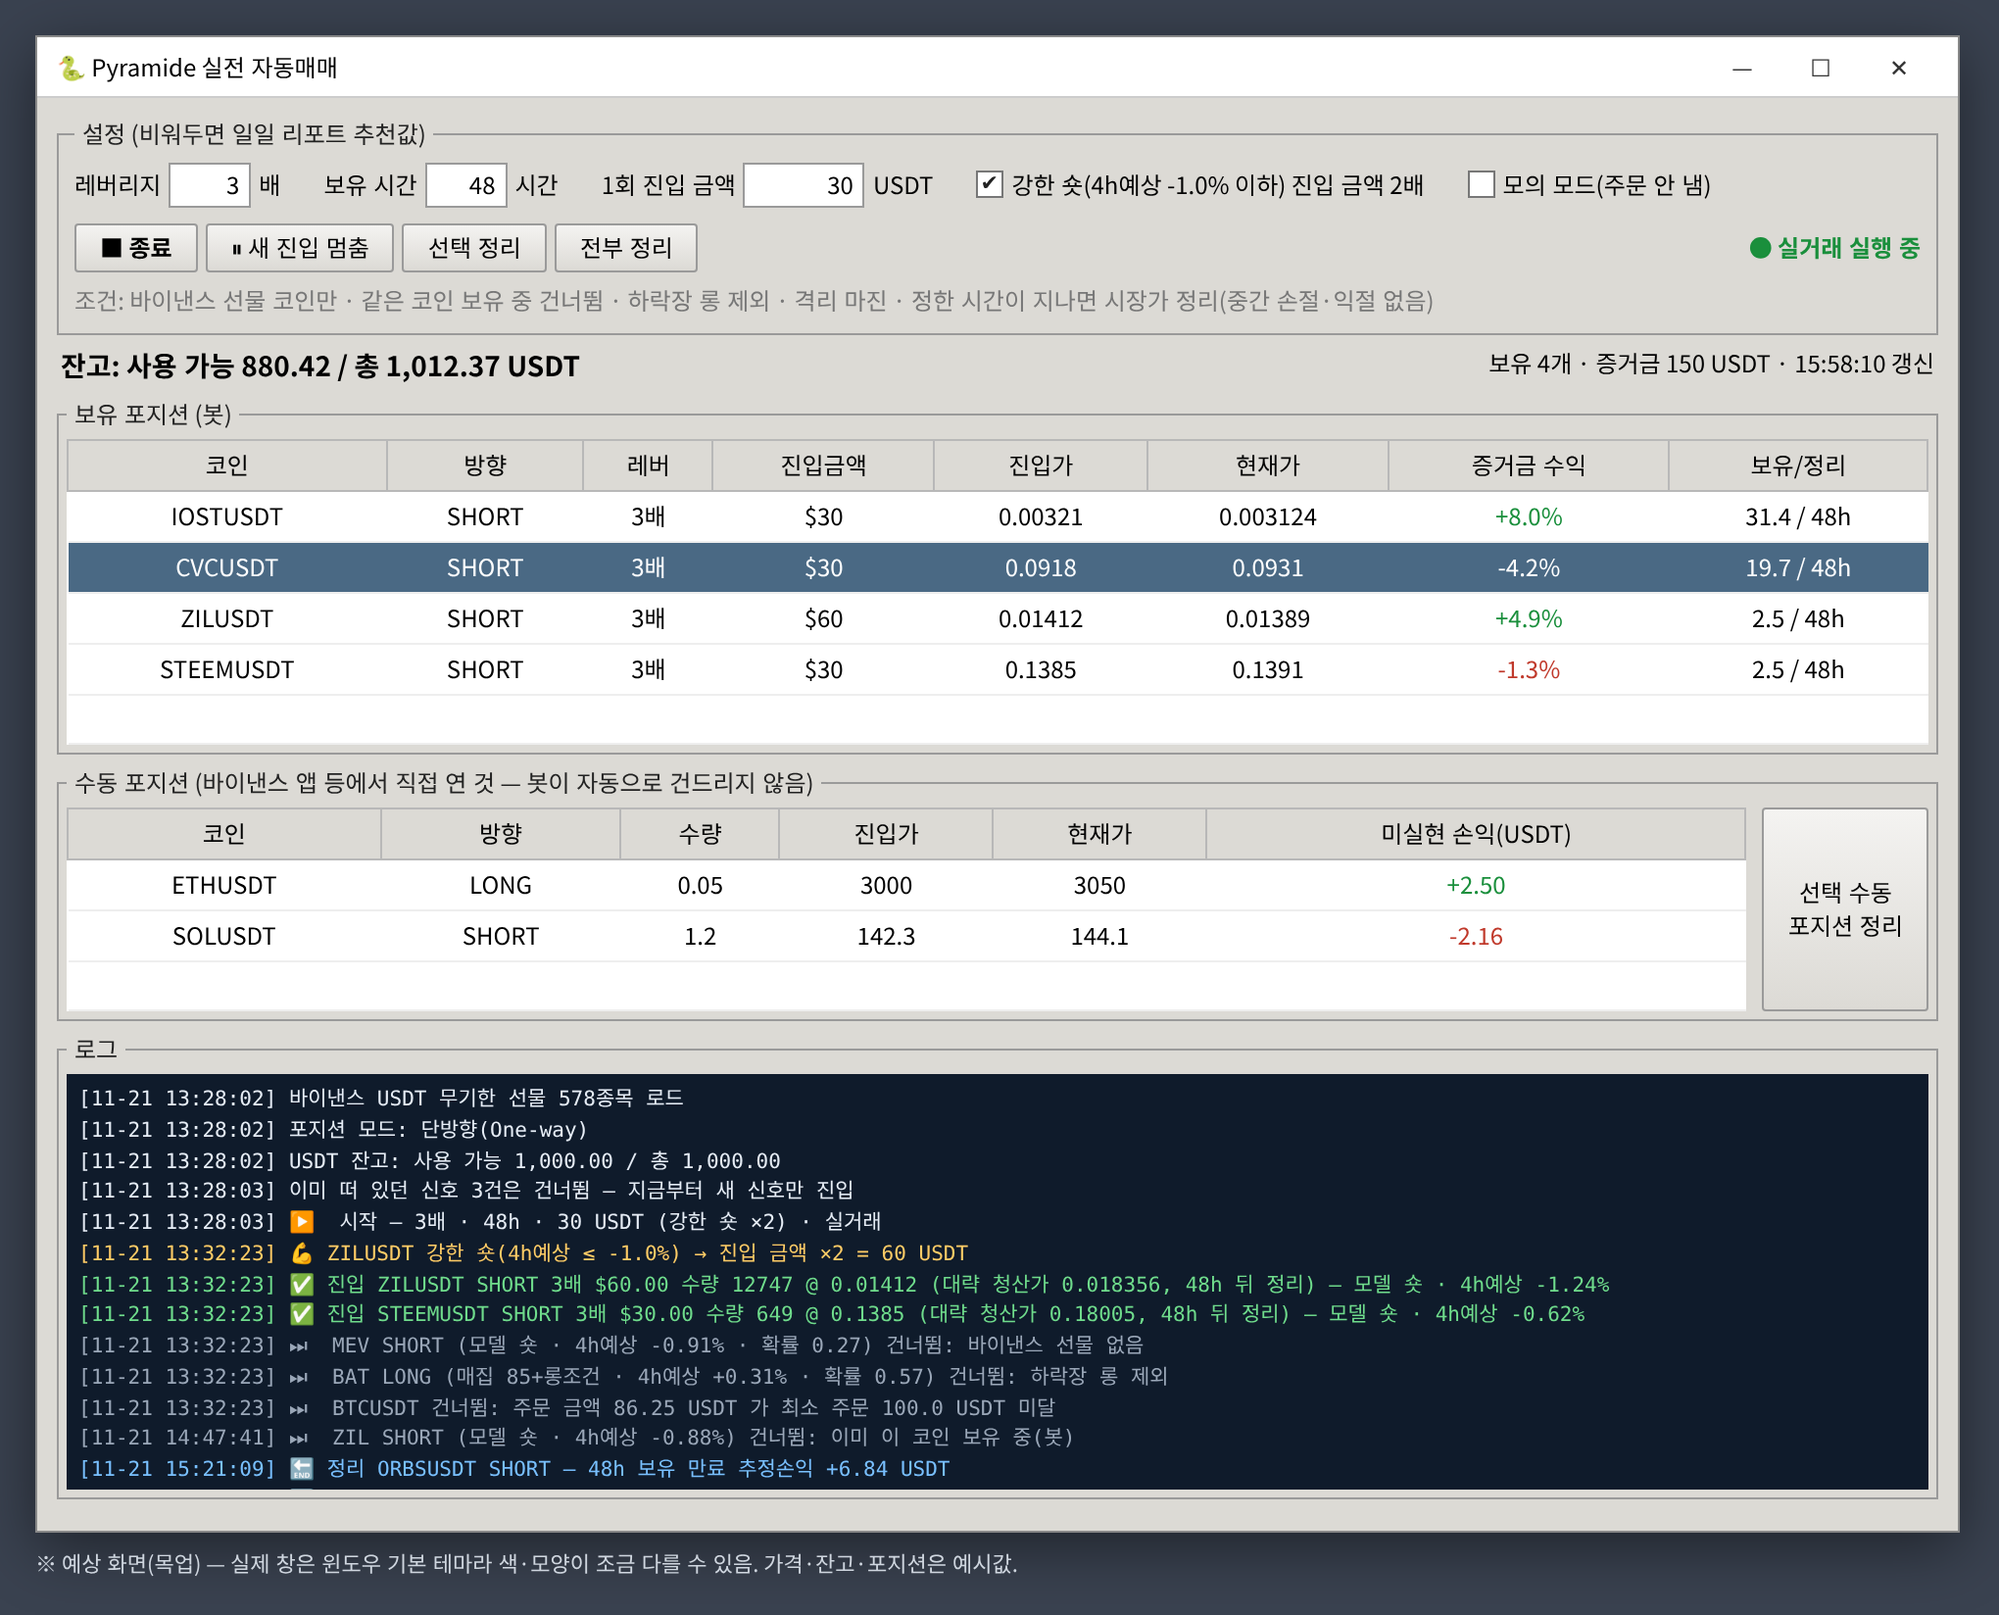
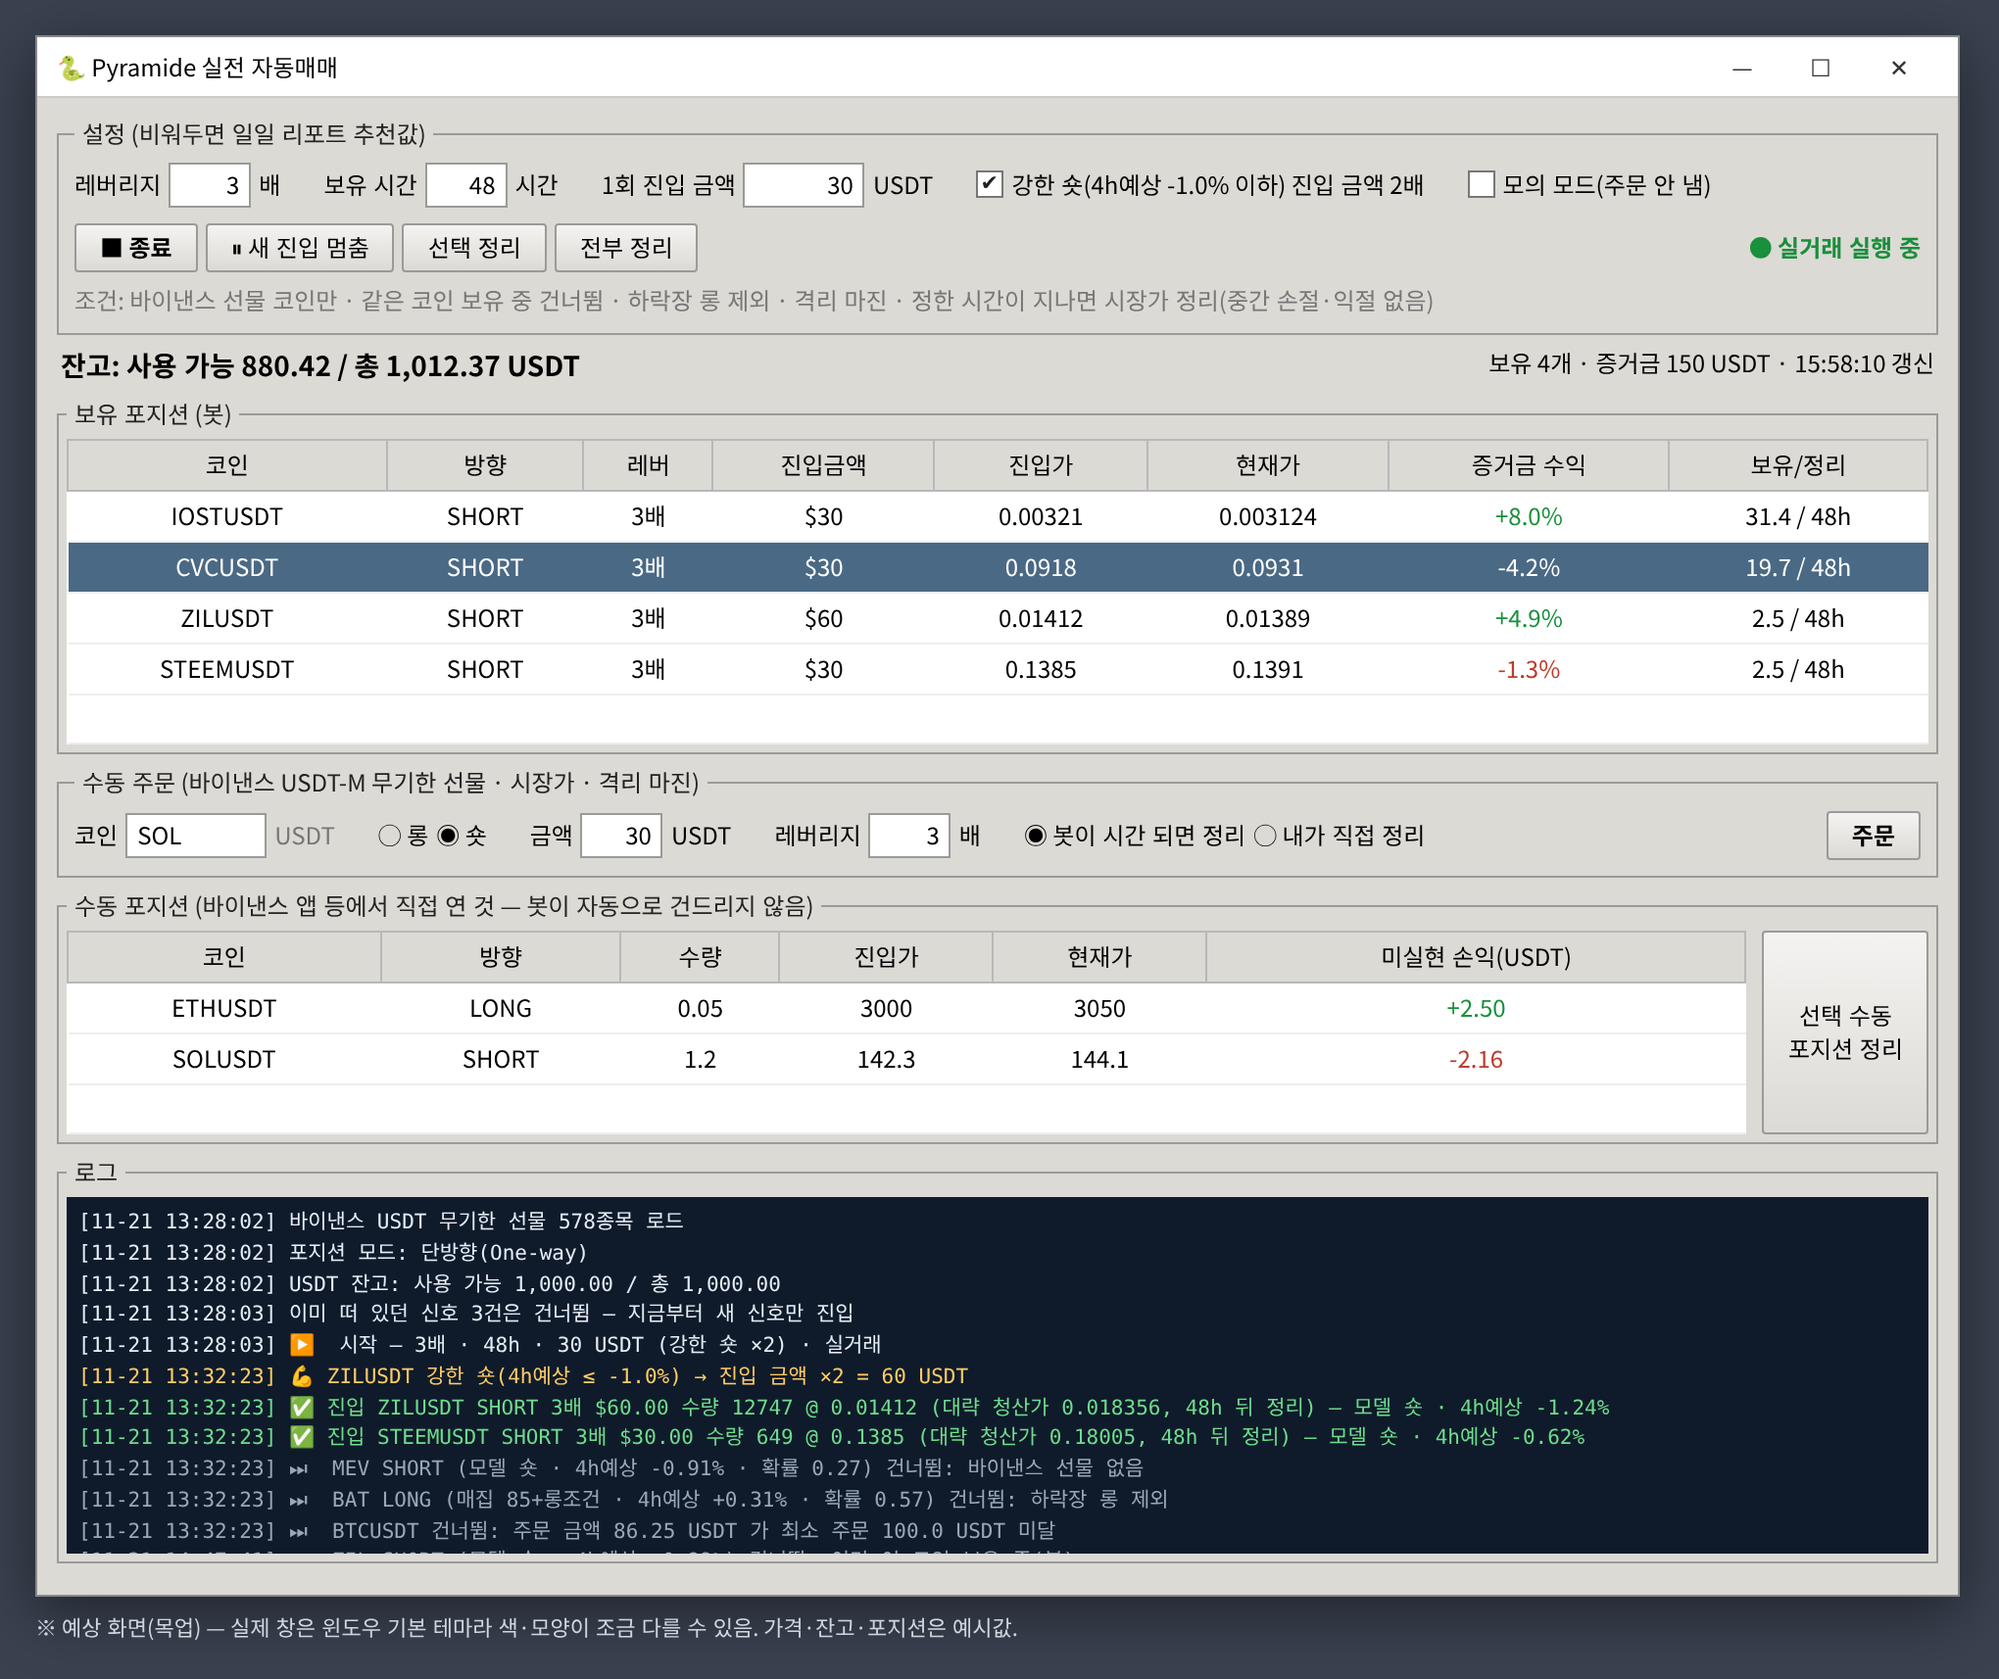
auto: update 2026-11-21 16:51:48.28

Changed region(s): [[0.0309, 0.0309, 0.9882, 0.9903], [0.7412, 0.0928, 0.8647, 0.1238], [0.8647, 0.0309, 0.9574, 0.0619]]

diff --git a/live_trader.py b/live_trader.py
@@ -38,7 +38,7 @@ live_trader.py — Pyramide 판정 신호 → 바이낸스 USDT-M 선물 실전 
   3) 켜 두는 동안만 동작. 꺼도 거래소 포지션은 그대로고, 다시 켜면 이어서 정리 시간을 관리한다.
      (꺼져 있는 동안 정리 시간이 지났으면 켜자마자 정리)
 
-실행 중 명령어: status / pause / resume / close BTCUSDT / closeall / manual / mclose BTCUSDT / quit / help
+실행 중 명령어: status / pause / resume / close BTCUSDT / closeall / order / manual / mclose BTCUSDT / quit / help
   (manual = 바이낸스 앱 등에서 직접 연 수동 포지션 보기, mclose = 사용자가 요청할 때만 그 수동 포지션 정리. 봇은 수동 포지션을 절대 자동으로 건드리지 않음)
 기록: live_trades.csv(거래), live_log.txt(로그), live_state.json(보유 중 포지션)
 """
@@ -578,20 +578,24 @@ class Trader:
                 mult = STRONG_MULT
         self.open_position(eid, symbol, direction, reason, regime, mult)
 
-    def open_position(self, eid, symbol, direction, reason, regime, mult=1.0):
+    def open_position(self, eid, symbol, direction, reason, regime, mult=1.0, lev=None, margin=None,
+                      hold=None, record=True):
+        """record=False 면 주문만 넣고 봇 목록에 안 넣음(= 수동 포지션, 자동 정리 안 함). 성공하면 True."""
         info = self.bn.symbols[symbol]
         mark = self.bn.mark_price(symbol)
-        lev, margin = self.lev, self.margin * mult
+        lev = int(lev or self.lev)
+        margin = float(margin if margin is not None else self.margin) * mult
+        hold = float(hold if hold is not None else self.hold_h)
         if mult != 1.0:
             log(f"💪 {symbol} 강한 숏(4h예상 ≤ {STRONG_SHORT_EXP4}%) → 진입 금액 ×{mult:g} = {margin:g} USDT")
         if not self.dry:
             avail, _ = self.bn.usdt_balance()
             if avail < margin * 1.05:
                 log(f"⏭  {symbol} 건너뜀: 사용 가능 잔고 {avail:.2f} < 진입 금액 {margin:.2f}")
-                return
+                return False
             if symbol in self.bn.positions():
                 log(f"⏭  {symbol} 건너뜀: 거래소에 이미 이 코인 포지션 있음(수동 포함)")
-                return
+                return False
             self.bn.set_margin_type(symbol, MARGIN_TYPE)
             real = self.bn.set_leverage(symbol, lev)
             if real != lev:
@@ -603,7 +607,7 @@ class Trader:
         if qty <= 0 or qty < info["min_qty"] or float(qty) * mark < info["min_notional"]:
             log(f"⏭  {symbol} 건너뜀: 주문 금액 {float(qty) * mark:.2f} USDT 가 최소 주문 {info['min_notional']} USDT 미달 "
                 f"— 진입 금액이나 레버리지를 올려야 함")
-            return
+            return False
         side = "BUY" if direction == "LONG" else "SELL"
         entry = mark
         if not self.dry:
@@ -611,19 +615,44 @@ class Trader:
                 res = self.bn.market_order(symbol, side, fmt_qty(qty), position_side=direction)
             except BinanceError as e:
                 log(f"❌ {symbol} 진입 주문 실패: {e}")
-                return
+                return False
             entry = float(res.get("avgPrice") or 0) or mark
             qty = Decimal(str(res.get("executedQty") or qty))
+        liq = entry * (1 - 0.9 / lev) if direction == "LONG" else entry * (1 + 0.9 / lev)
+        if not record:
+            log(f"✅ {'[모의] ' if self.dry else ''}수동 주문 {symbol} {direction} {lev}배 ${margin:.2f} 수량 {fmt_qty(qty)} "
+                f"@ {entry:g} (대략 청산가 {liq:g}) — 봇이 관리 안 함(직접 정리)")
+            return True
         t = {"event_id": eid, "symbol": symbol, "direction": direction, "reason": reason, "regime": regime,
              "mode": "dry" if self.dry else "live", "leverage": lev, "margin": margin, "qty": fmt_qty(qty),
              "entry_time": datetime.now().strftime("%Y-%m-%d %H:%M:%S"), "entry_price": entry,
-             "hold_hours": self.hold_h, "status": "open"}
+             "hold_hours": hold, "status": "open"}
         with self.lock:
             self.state["trades"][eid] = t
         self.save_state()
-        liq = entry * (1 - 0.9 / lev) if direction == "LONG" else entry * (1 + 0.9 / lev)
         log(f"✅ {'[모의] ' if self.dry else ''}진입 {symbol} {direction} {lev}배 ${margin:.2f} 수량 {fmt_qty(qty)} "
-            f"@ {entry:g} (대략 청산가 {liq:g}, {self.hold_h:g}h 뒤 정리) — {reason}")
+            f"@ {entry:g} (대략 청산가 {liq:g}, {hold:g}h 뒤 정리) — {reason}")
+        return True
+
+    def manual_open(self, ticker, direction, margin, lev, managed=True, hold=None):
+        """사용자 수동 주문. managed=True 면 봇 목록에 넣어 hold 시간 뒤 자동 정리, False 면 수동 포지션(직접 정리)."""
+        direction = direction.upper()
+        if direction not in ("LONG", "SHORT"):
+            log("❌ 방향은 LONG/SHORT")
+            return False
+        t = ticker.upper().strip()
+        symbol = t if t in self.bn.symbols else self.to_symbol(t[:-4] if t.endswith("USDT") else t)
+        if not symbol:
+            log(f"❌ {ticker}: 바이낸스 USDT 무기한 심볼 없음")
+            return False
+        if any(x["symbol"] == symbol for x in self.open_trades().values()):
+            log(f"⏭  {symbol}: 이미 봇이 들고 있는 코인")
+            return False
+        eid = f"manual_{datetime.now():%Y%m%d%H%M%S}_{symbol}_{direction}"
+        log(f"🖐  수동 주문 요청 {symbol} {direction} {lev}배 ${float(margin):g} "
+            + (f"(봇이 {float(hold if hold is not None else self.hold_h):g}h 뒤 정리)" if managed else "(직접 정리)"))
+        return self.open_position(eid, symbol, direction, "수동 주문", "", 1.0, lev=lev, margin=margin,
+                                  hold=hold, record=managed)
 
     # --- 보유 관리 ---
     def manage(self):
@@ -748,6 +777,8 @@ HELP = """
   pause / resume  새 진입 멈춤 / 다시 시작 (보유 포지션 정리는 계속됨)
   close BTCUSDT   그 포지션 바로 정리
   closeall        봇 포지션 전부 바로 정리
+  order ZIL short 30 3 [auto|keep]  수동 주문: 코인 방향 금액(USDT) 레버리지
+                  auto(기본) = 봇이 정한 시간 뒤 정리 / keep = 수동 포지션으로 두고 직접 정리
   manual          수동 포지션(바이낸스 앱 등에서 직접 연 것) 보기
   mclose ZILUSDT  그 수동 포지션 정리 (yes 확인 후)
   quit            종료 (포지션은 그대로 두고, 다시 켜면 이어서 관리)
@@ -784,6 +815,19 @@ def command_loop(tr):
                 for k, t in hit:
                     tr.close_trade(k, t, "수동 명령 정리")
                 tr.save_state()
+            elif cmd == "order" and len(args) >= 3:
+                tk_, dr = args[0], args[1].upper()
+                dr = {"L": "LONG", "S": "SHORT", "롱": "LONG", "숏": "SHORT"}.get(dr, dr)
+                amt_ = float(args[2])
+                lev_ = int(float(args[3])) if len(args) > 3 and args[3].replace('.', '', 1).isdigit() else tr.lev
+                managed = not any(a.lower() == "keep" for a in args[3:])
+                ok = input(f"⚠ 수동 주문 {tk_.upper()} {dr} {lev_}배 ${amt_:g} "
+                           f"({'봇이 ' + format(tr.hold_h, 'g') + 'h 뒤 정리' if managed else '직접 정리'}) — yes 입력: ").strip().lower()
+                if ok == "yes":
+                    tr.manual_open(tk_, dr, amt_, lev_, managed=managed)
+                    tr.save_state()
+                else:
+                    print("취소")
             elif cmd == "manual":
                 lst = tr.manual_positions()
                 print(f"──────── 수동 포지션 {len(lst)}개 (봇이 관리 안 함) ────────")

diff --git a/live_trader_gui.py b/live_trader_gui.py
@@ -6,6 +6,7 @@ live_trader_gui.py — live_trader.py 의 창(GUI) 버전
   - 창에서 레버리지 / 보유 시간 / 1회 진입 금액 / 강한 숏 2배 / 모의 모드를 고르고 [시작]
   - 보유 포지션 표(10초마다 갱신), 로그 창, 잔고 표시
   - [새 진입 멈춤/재개], [선택 정리], [전부 정리], [종료]
+  - 수동 주문: 코인·롱/숏·금액·레버리지 → '봇이 시간 되면 정리' 또는 '내가 직접 정리'
   - 수동 포지션(직접 연 것) 표: 보기만 하고, [선택 수동 포지션 정리]를 눌러 확인할 때만 정리
 실행:  python live_trader_gui.py   (또는 파일 더블클릭)
 ※ live_trader.py(콘솔판)와 동시에 켜지 마세요 — 같은 잠금 파일로 막혀 있음.
@@ -41,7 +42,7 @@ class App:
         self.tr = None
         self.th = None
         root.title(APP_TITLE)
-        root.geometry("1000x780")
+        root.geometry("1000x830")
         root.minsize(820, 520)
         root.protocol("WM_DELETE_WINDOW", self.on_close)
         st = ttk.Style()
@@ -113,6 +114,30 @@ class App:
         self.tv.configure(yscrollcommand=sb1.set)
         sb1.pack(side="right", fill="y")
         self.tv.pack(fill="both", expand=True)
+
+        # ── 수동 주문 (바이낸스 USDT-M 무기한 선물) ──
+        of = ttk.LabelFrame(root, text=" 수동 주문 (바이낸스 USDT-M 무기한 선물 · 시장가 · 격리 마진) ", padding=6)
+        of.pack(fill="x", padx=10, pady=4)
+        self.o_coin = tk.StringVar(value="")
+        self.o_dir = tk.StringVar(value="SHORT")
+        self.o_amt = tk.StringVar(value=f"{L.DEFAULT_MARGIN_USDT:g}")
+        self.o_lev = tk.StringVar(value=str(L.DEFAULT_LEVERAGE))
+        self.o_mode = tk.StringVar(value="auto")
+        ttk.Label(of, text="코인").pack(side="left")
+        ttk.Entry(of, textvariable=self.o_coin, width=10).pack(side="left", padx=(4, 2))
+        ttk.Label(of, text="USDT", foreground="gray").pack(side="left", padx=(0, 10))
+        ttk.Radiobutton(of, text="롱", variable=self.o_dir, value="LONG").pack(side="left")
+        ttk.Radiobutton(of, text="숏", variable=self.o_dir, value="SHORT").pack(side="left", padx=(0, 10))
+        ttk.Label(of, text="금액").pack(side="left")
+        ttk.Entry(of, textvariable=self.o_amt, width=7, justify="right").pack(side="left", padx=(4, 2))
+        ttk.Label(of, text="USDT").pack(side="left", padx=(0, 10))
+        ttk.Label(of, text="레버리지").pack(side="left")
+        ttk.Entry(of, textvariable=self.o_lev, width=4, justify="right").pack(side="left", padx=(4, 2))
+        ttk.Label(of, text="배").pack(side="left", padx=(0, 10))
+        ttk.Radiobutton(of, text="봇이 시간 되면 정리", variable=self.o_mode, value="auto").pack(side="left")
+        ttk.Radiobutton(of, text="내가 직접 정리", variable=self.o_mode, value="keep").pack(side="left", padx=(0, 10))
+        self.btn_order = ttk.Button(of, text="주문", style="Big.TButton", command=self.manual_order, state="disabled")
+        self.btn_order.pack(side="right")
 
         # ── 수동 포지션(봇이 안 연 것): 보기만, 버튼 누를 때만 정리 ──
         mf = ttk.LabelFrame(root, text=" 수동 포지션 (바이낸스 앱 등에서 직접 연 것 — 봇이 자동으로 건드리지 않음) ", padding=4)
@@ -228,7 +253,7 @@ class App:
         dry = self.tr.dry
         self.lbl_state.configure(text="● 모의 실행 중" if dry else "● 실거래 실행 중",
                                  foreground="#2f7fbf" if dry else "#1a8f3c")
-        for b in (self.btn_pause, self.btn_close, self.btn_closeall, self.btn_mclose):
+        for b in (self.btn_pause, self.btn_close, self.btn_closeall, self.btn_mclose, self.btn_order):
             b.configure(state="normal")
         self.btn_start.configure(text="■ 종료", command=self.stop)
         self.btn_start.configure(state="normal")
@@ -279,6 +304,37 @@ class App:
         self.tr.save_state()
         self.root.after(0, self.refresh)
 
+    def manual_order(self):
+        if not self.tr:
+            return
+        coin = self.o_coin.get().strip().upper()
+        if not coin:
+            messagebox.showinfo("수동 주문", "코인 이름을 넣어줘 (예: ZIL, BTC).")
+            return
+        try:
+            amt = float(self.o_amt.get())
+            lev = int(float(self.o_lev.get()))
+            if amt <= 0 or not 1 <= lev <= 20:
+                raise ValueError
+        except ValueError:
+            messagebox.showwarning("입력 오류", "금액은 0보다 큰 숫자, 레버리지는 1~20.")
+            return
+        d, keep = self.o_dir.get(), self.o_mode.get() == "keep"
+        how = "내가 직접 정리(수동 포지션 표로 감)" if keep else f"봇이 {self.tr.hold_h:g}시간 뒤 자동 정리"
+        msg = (f"{'[모의] ' if self.tr.dry else '실제 주문 — '}바이낸스 USDT 선물 시장가\n\n"
+               f"{coin} {'롱' if d == 'LONG' else '숏'} · {lev}배 · 증거금 {amt:g} USDT (명목 {amt * lev:g} USDT)\n{how}\n\n주문할까?")
+        if not messagebox.askyesno("수동 주문 확인", msg, icon="warning"):
+            return
+        self._bg(self._order_worker, coin, d, amt, lev, not keep)
+
+    def _order_worker(self, coin, d, amt, lev, managed):
+        try:
+            self.tr.manual_open(coin, d, amt, lev, managed=managed)
+            self.tr.save_state()
+        except Exception as e:
+            L.log(f"❌ 수동 주문 오류: {e}")
+        self.root.after(0, self.refresh_once)
+
     def close_manual(self):
         if not self.tr:
             return
@@ -310,7 +366,7 @@ class App:
         self._shutdown()
         self.btn_start.configure(text="▶ 시작", command=self.start)
         self.set_inputs("normal")
-        for b in (self.btn_pause, self.btn_close, self.btn_closeall, self.btn_mclose):
+        for b in (self.btn_pause, self.btn_close, self.btn_closeall, self.btn_mclose, self.btn_order):
             b.configure(state="disabled")
         self.lbl_state.configure(text="대기 중", foreground="gray")
 
